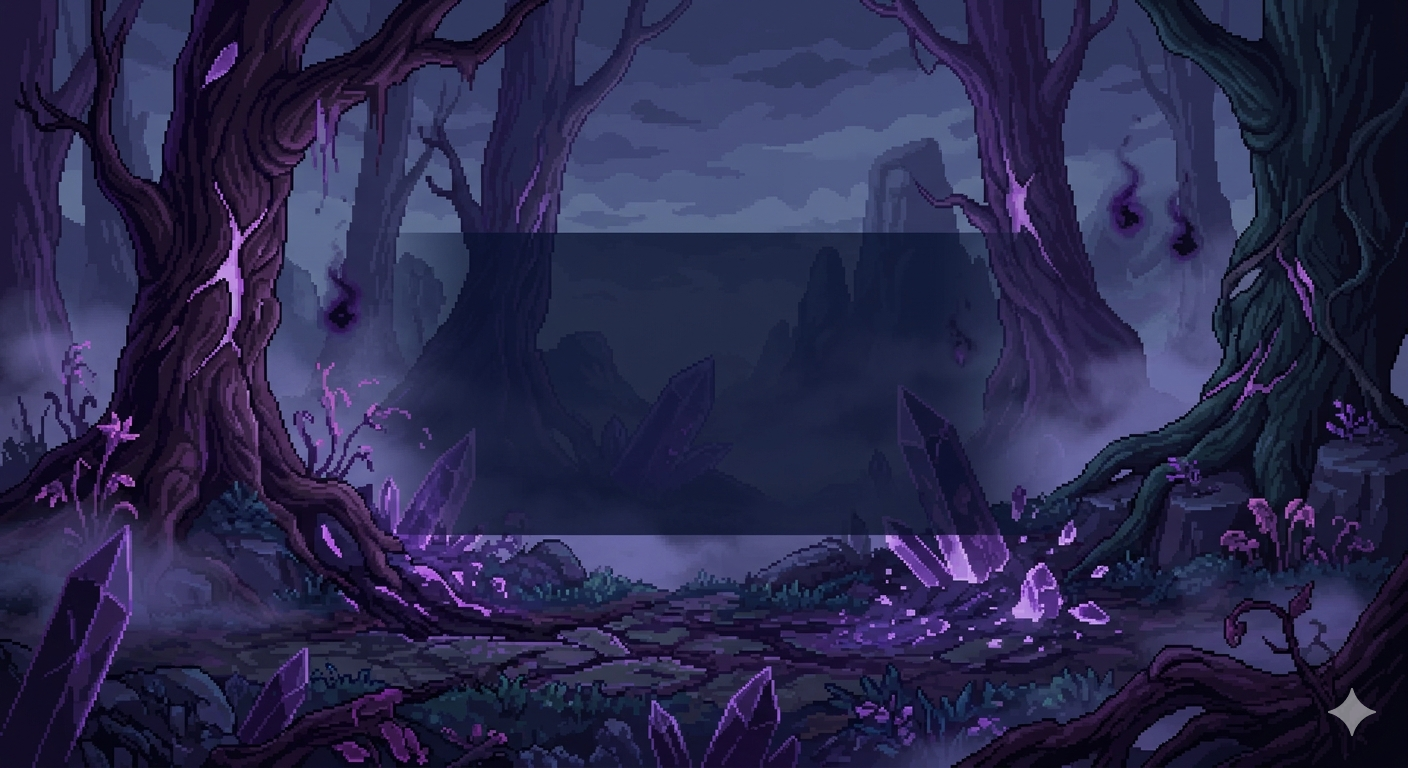
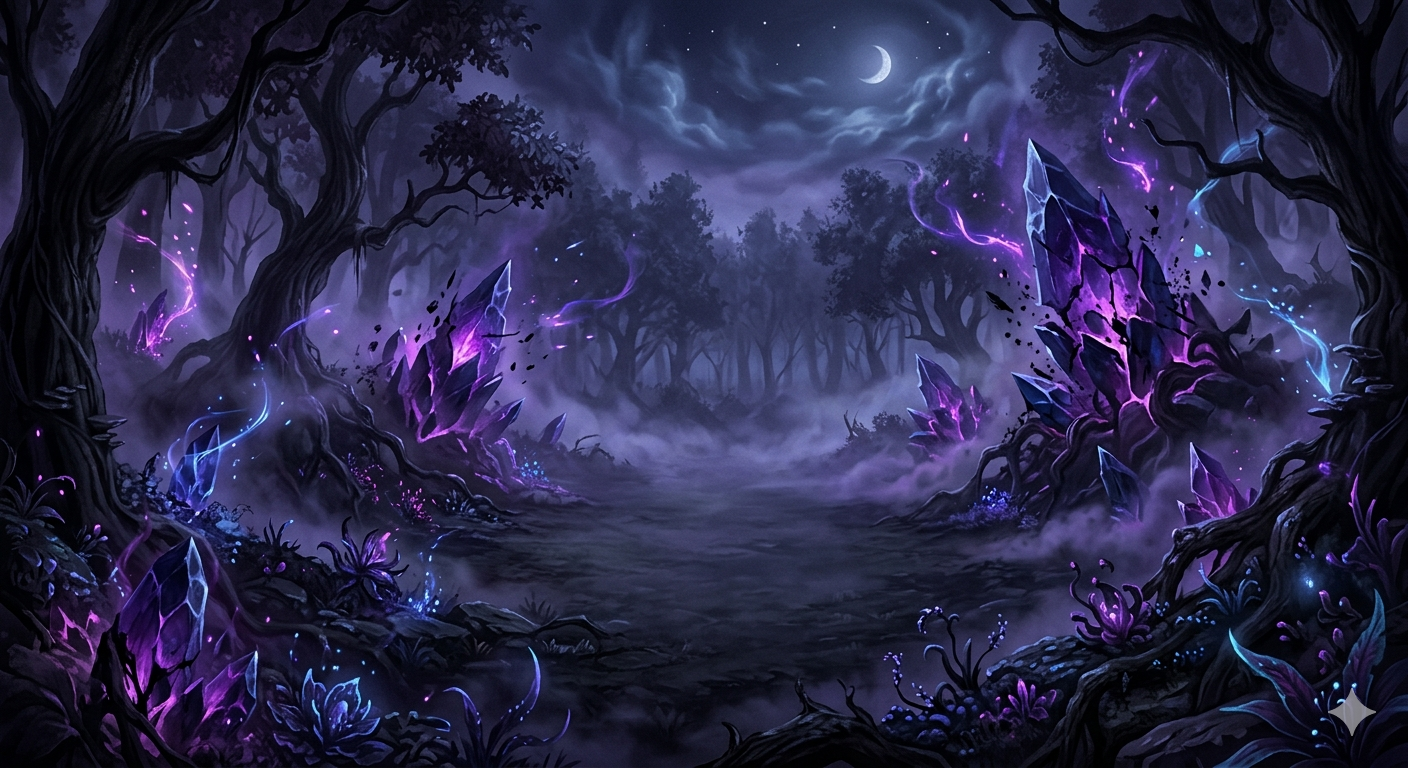
feat: cambios x prueba

diff --git a/GameOverWorld.java b/GameOverWorld.java
@@ -1,31 +1,28 @@
-import greenfoot.*;  // (World, Actor, GreenfootImage, Greenfoot and MouseInfo)
+import greenfoot.*;
 
-/**
- * Write a description of class GameOverWorld here.
- * 
- * @author (your name) 
- * @version (a version number or a date)
- */
 public class GameOverWorld extends World
 {
+    private boolean mostrarAnuncio = true;
+    private int timer = 0;
+
     public GameOverWorld()
     {
-    super(1024, 576, 1);
+        super(1024, 576, 1);
 
-    GreenfootImage bg =
-        new GreenfootImage("gameoverBackground.png");
-
-    getBackground().drawImage(bg, 0, 0);
-
-    showText("GAME OVER", 512, 200);
-
-    showText("Pyresiona M para volver al menú principal", 512, 280);
-
-    showText("Presiona A para ver anuncio y continuar", 512, 340);
+        dibujarPantalla();
     }
 
     public void act()
     {
+        timer++;
+
+        // TITILEO DEL ANUNCIO
+        if(timer % 40 == 0)
+        {
+            mostrarAnuncio = !mostrarAnuncio;
+            dibujarPantalla();
+        }
+
         if(Greenfoot.isKeyDown("m"))
         {
             Greenfoot.setWorld(new MyWorld());
@@ -34,6 +31,74 @@ public class GameOverWorld extends World
         if(Greenfoot.isKeyDown("a"))
         {
             Greenfoot.setWorld(new AdWorld());
+        }
+    }
+
+    private void dibujarPantalla()
+    {
+        GreenfootImage fondo = getBackground();
+
+        // FONDO
+        GreenfootImage bg =
+            new GreenfootImage("gameoverBackground.png");
+
+        fondo.drawImage(bg, 0, 0);
+
+        // PANEL
+        GreenfootImage panel = new GreenfootImage(700, 220);
+
+        panel.setColor(new Color(0, 0, 0, 160));
+        panel.fillRect(0, 0, 700, 220);
+
+        panel.setColor(new Color(100, 255, 255, 180));
+        panel.drawRect(0, 0, 699, 219);
+
+        panel.setColor(new Color(180, 255, 255, 80));
+        panel.drawRect(2, 2, 695, 215);
+
+        // CENTRADO
+        fondo.drawImage(panel, 162, 170);
+
+        // GAME OVER
+        GreenfootImage titulo = new GreenfootImage(
+            "GAME OVER",
+            55,
+            new Color(100,255,255),
+            new Color(0,0,0,0)
+        );
+
+        int tituloX =
+            (getWidth() - titulo.getWidth()) / 2;
+
+        fondo.drawImage(titulo, tituloX, 210);
+
+        // MENU
+        GreenfootImage menu = new GreenfootImage(
+            "Presiona M para volver al menu principal",
+            30,
+            Color.WHITE,
+            new Color(0,0,0,0)
+        );
+
+        int menuX =
+            (getWidth() - menu.getWidth()) / 2;
+
+        fondo.drawImage(menu, menuX, 300);
+
+        // ANUNCIO TITILANDO
+        if(mostrarAnuncio)
+        {
+            GreenfootImage anuncio = new GreenfootImage(
+                "Presiona A para ver anuncio y continuar",
+                30,
+                Color.WHITE,
+                new Color(0,0,0,0)
+            );
+
+            int anuncioX =
+                (getWidth() - anuncio.getWidth()) / 2;
+
+            fondo.drawImage(anuncio, anuncioX, 350);
         }
     }
 }

diff --git a/VictoryWorld.java b/VictoryWorld.java
@@ -1,0 +1,98 @@
+import greenfoot.*;
+
+public class VictoryWorld extends World
+{
+    private boolean mostrarTexto = true;
+    private int timer = 0;
+
+    public VictoryWorld()
+    {
+        super(1024, 576, 1);
+
+        actualizarPantalla();
+    }
+
+    public void act()
+    {
+        timer++;
+
+        // TITILEO DEL TEXTO
+        if(timer % 40 == 0)
+        {
+            mostrarTexto = !mostrarTexto;
+            actualizarPantalla();
+        }
+
+        if(Greenfoot.isKeyDown("m"))
+        {
+            Greenfoot.setWorld(new MyWorld());
+        }
+    }
+
+    public void actualizarPantalla()
+    {
+        GreenfootImage fondo = getBackground();
+
+        // FONDO
+        GreenfootImage bg =
+            new GreenfootImage("victoryBackground.png");
+
+        fondo.drawImage(bg, 0, 0);
+
+        // PANEL
+        GreenfootImage panel = new GreenfootImage(700, 280);
+
+        panel.setColor(new Color(0, 0, 0, 160));
+        panel.fillRect(0, 0, 700, 220);
+
+        panel.setColor(new Color(100, 255, 255, 180));
+        panel.drawRect(0, 0, 699, 219);
+
+        panel.setColor(new Color(180, 255, 255, 80));
+        panel.drawRect(2, 2, 695, 215);
+
+        fondo.drawImage(panel, 162, 150);
+
+        // TITULO
+        GreenfootImage titulo = new GreenfootImage(
+            "NIVEL COMPLETADO",
+            55,
+            Color.YELLOW,
+            new Color(0,0,0,0)
+        );
+
+        int tituloX =
+            (getWidth() - titulo.getWidth()) / 2;
+
+        fondo.drawImage(titulo, tituloX, 210);
+
+        // MENSAJE
+        GreenfootImage mensaje = new GreenfootImage(
+            "Kai ha restaurado la energia del bosque",
+            30,
+            Color.WHITE,
+            new Color(0,0,0,0)
+        );
+
+        int mensajeX =
+            (getWidth() - mensaje.getWidth()) / 2;
+
+        fondo.drawImage(mensaje, mensajeX, 300);
+
+        // TEXTO TITILANDO
+        if(mostrarTexto)
+        {
+            GreenfootImage menu = new GreenfootImage(
+                "Presiona M para volver al menu principal",
+                30,
+                Color.WHITE,
+                new Color(0,0,0,0)
+            );
+
+            int menuX =
+                (getWidth() - menu.getWidth()) / 2;
+
+            fondo.drawImage(menu, menuX, 340);
+        }
+    }
+}

diff --git a/GameWorld.java b/GameWorld.java
@@ -65,8 +65,7 @@ public class GameWorld extends World
         {
             Greenfoot.playSound("gameover.mp3");
             
-            showText("GAME OVER", 512, 280);
-            Greenfoot.stop();
+            Greenfoot.setWorld(new GameOverWorld());
 
             
         }

diff --git a/Goal.java b/Goal.java
@@ -19,9 +19,8 @@ public class Goal extends Actor
             if(jugador.getY() < getY() - 20)
             {
                 Greenfoot.playSound("win.mp3");
-                Greenfoot.stop();
 
-                getWorld().showText("¡GANASTE!", 512, 280);
+                Greenfoot.setWorld(new VictoryWorld());
             }
         }
     }